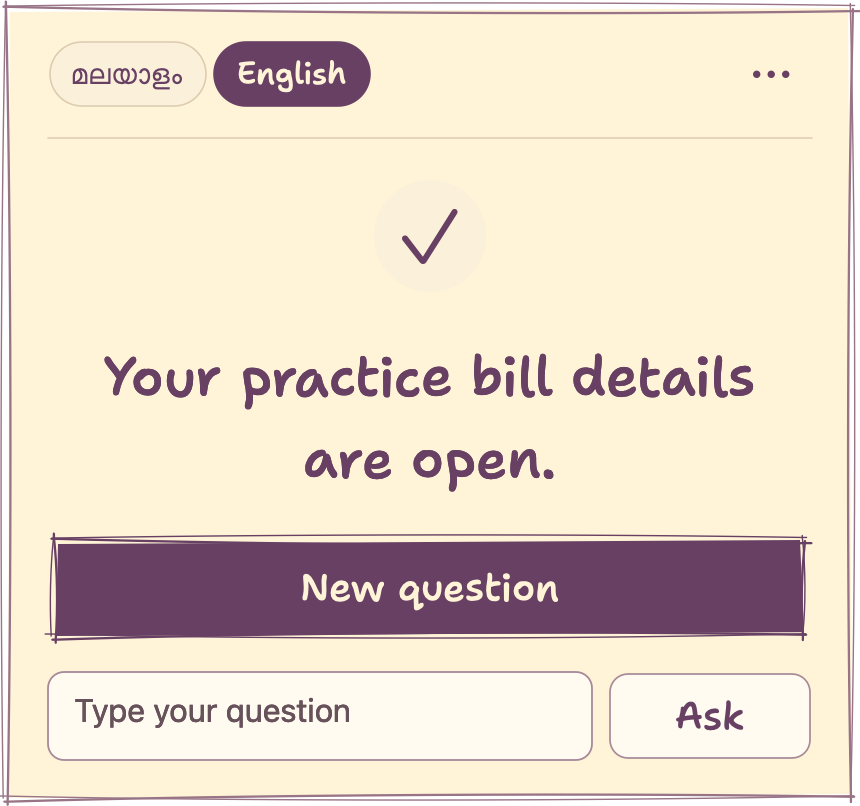
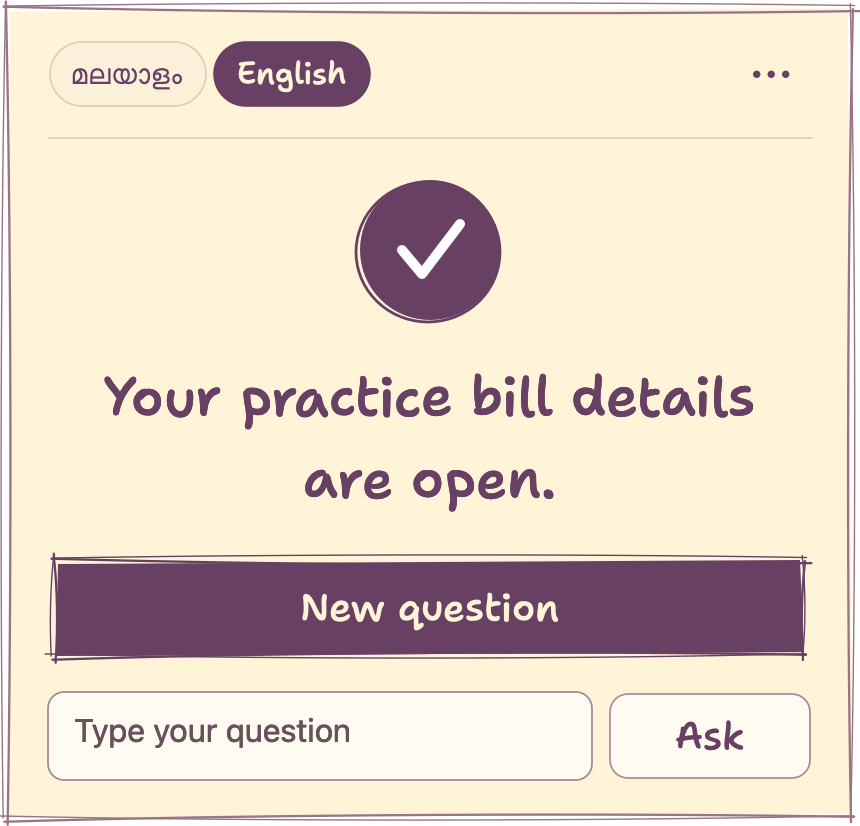
Polish the listening, thinking and done panel states

diff --git a/companion/panel/views.py b/companion/panel/views.py
@@ -53,6 +53,11 @@ def stroke(path, tint, weight):
     path.stroke()
 
 
+def ink_disc(x, y, w, h, tint):
+    fill(A.NSBezierPath.bezierPathWithOvalInRect_(((x + 3, y + 3), (w - 6, h - 6))), tint)
+    stroke(A.NSBezierPath.bezierPathWithOvalInRect_(((x + 1, y + 4), (w - 4, h - 6))), tint, 1.4)
+
+
 def paper_edge(rect, base, edge):
     x, y, w, h = rect
     polygon = line_path([(x + 1, y + 2), (x + w - 2, y), (x + w, y + h - 2), (x, y + h)], 1, True)
@@ -108,9 +113,9 @@ class PaperSurface(A.NSView):
             fill(path, SHEET)
             stroke(path, HAIR, .9)
         if self.badge:
-            name, tint, x, y = self.badge
-            fill(A.NSBezierPath.bezierPathWithOvalInRect_(((x - 28, y - 28), (56, 56))), WASH)
-            draw_symbol(name, 33, tint, x, y)
+            x, y = self.badge
+            ink_disc(x - 38, y - 38, 76, 76, INK)
+            stroke(line_path([(x - 14, y), (x - 4, y + 12), (x + 15, y - 13)], 5), A.NSColor.whiteColor(), 5)
 
 
 class PaperButton(A.NSButton):
@@ -128,9 +133,7 @@ class PaperButton(A.NSButton):
         kind = self.kind
         ink = INK if self.isEnabled() else HAIR
         if kind == "mic":
-            disc = A.NSBezierPath.bezierPathWithOvalInRect_(((3, 3), (w - 6, h - 6)))
-            fill(disc, ink)
-            stroke(A.NSBezierPath.bezierPathWithOvalInRect_(((1, 4), (w - 4, h - 6))), ink, 1.4)
+            ink_disc(0, 0, w, h, ink)
             draw_symbol(self.glyph, w * .37, PAPER, cx, cy)
         elif kind in ("replay", "more"):
             if kind == "replay" or self.state():
@@ -165,8 +168,8 @@ class LanguagePills(A.NSSegmentedControl):
             title.drawAtPoint_((x + (w / 2 - size.width) / 2 - 1, (h - size.height) / 2))
 
 
-class ListeningMeter(A.NSView):
-    """Listening indicator. The voice adapter supplies recording state, not audio amplitudes."""
+class PanelActivityIndicator(A.NSView):
+    """Status animations for planning and recording. Bars indicate recording activity."""
     def isFlipped(self):
         return True
 
@@ -178,30 +181,42 @@ class ListeningMeter(A.NSView):
         if self.isHidden():
             return
 
-        def animate(layer, key, low, high, duration):
+        def animate(layer, key, low, high, duration, offset=0):
             if reduce_motion:
                 return
             pulse = Q.CABasicAnimation.animationWithKeyPath_(key)
             pulse.setFromValue_(low)
             pulse.setToValue_(high)
             pulse.setDuration_(duration)
+            pulse.setTimeOffset_(offset)
             pulse.setAutoreverses_(True)
             pulse.setRepeatCount_(float("inf"))
             pulse.setTimingFunction_(Q.CAMediaTimingFunction.functionWithName_(Q.kCAMediaTimingFunctionEaseInEaseOut))
             layer.addAnimation_forKey_(pulse, key)
 
+        center = self.bounds().size.width / 2
+        if self.mode == "thinking":
+            for i in range(3):
+                dot = Q.CALayer.layer()
+                dot.setFrame_(((center - 5 + (i - 1) * 19, 6), (10, 10)))
+                dot.setCornerRadius_(5)
+                dot.setBackgroundColor_(INK.CGColor())
+                root.addSublayer_(dot)
+                animate(dot, "opacity", .42, 1, .85, (2 - i) * .20)
+            return
+
         for diameter, alpha in ((112, .42), (126, .18)):
             ring = Q.CALayer.layer()
-            ring.setFrame_(((70 - diameter / 2, 66 - diameter / 2), (diameter, diameter)))
+            ring.setFrame_(((center - diameter / 2, 66 - diameter / 2), (diameter, diameter)))
             ring.setCornerRadius_(diameter / 2)
             ring.setBorderWidth_(1.3)
             ring.setBorderColor_(INK.colorWithAlphaComponent_(alpha).CGColor())
             root.addSublayer_(ring)
             animate(ring, "transform.scale", .95, 1.04, 1.3)
-        for i, h in enumerate((6, 12, 19, 10, 24, 15, 8, 18, 11, 6)):
+        for i, h in enumerate((12, 24, 38, 20, 48, 30, 16, 36, 22, 12)):
             bar = Q.CALayer.layer()
-            bar.setFrame_(((36 + i * 7, 148 - h / 2), (4, h)))
-            bar.setCornerRadius_(2)
+            bar.setFrame_(((center - 67 + i * 14, 165 - h / 2), (8, h)))
+            bar.setCornerRadius_(4)
             bar.setBackgroundColor_(INK.CGColor())
             root.addSublayer_(bar)
             animate(bar, "transform.scale.y", .48, 1, .4 + (i % 3) * .12)

diff --git a/companion/panel/__init__.py b/companion/panel/__init__.py
@@ -8,7 +8,7 @@ import objc
 from Foundation import NSObject
 
 from .views import (
-    INK, MUTED, LanguagePills, ListeningMeter, PaperButton,
+    INK, MUTED, LanguagePills, PanelActivityIndicator, PaperButton,
     PaperPanelWindow, PaperSurface, hand, text_height, text_style,
 )
 
@@ -33,7 +33,7 @@ WORDS = {
     "en": {
         "prompt": "What can I help you do?", "intro": "Tell me, and I’ll point it out on screen.",
         "speak": "Tap to speak", "listen": "Listening…", "finish": "Tap again when you’ve finished.",
-        "think": "Finding your next step…", "type": "Type your question", "screen": "On screen",
+        "think": "Understanding…", "type": "Type your question", "screen": "On screen",
         "new": "New question", "replay": "Hear this step again", "details": "Technical details",
         "heard": "Heard", "again": "Let’s try again", "voice_error": "Voice is unavailable. Type your question or try speaking again.",
         "page_error": "Open the page you’d like help with.", "stop": "Stop", "skip": "Skip", "ask": "Ask",
@@ -153,7 +153,7 @@ class PaperPanel(NSObject):
         self.scroll.setScrollerStyle_(A.NSScrollerStyleOverlay)
         self.scroll.setDocumentView_(self.instruction)
         self.root.addSubview_(self.scroll)
-        self.meter = ListeningMeter.alloc().initWithFrame_(((0, 0), (140, 164)))
+        self.meter = PanelActivityIndicator.alloc().initWithFrame_(A.NSZeroRect)
         self.meter.setWantsLayer_(True)
         self.meter.setAccessibilityElement_(False)
         self.root.addSubview_positioned_relativeTo_(self.meter, A.NSWindowBelow, self.mic_button)
@@ -272,6 +272,9 @@ class PaperPanel(NSObject):
         public_state = {"voice_error": "error", "page_error": "error", "transcribing": "thinking"}.get(mode, mode)
         self.window.setAccessibilityValue_(public_state)
         self.window.setAccessibilityHelp_(mode)
+        self.meter.mode = public_state
+        stop_width = (inner - 76) / 2
+        stop_x = left + inner - stop_width
         y = 86
         if mode == "guiding":
             if self.heard_text:
@@ -305,24 +308,24 @@ class PaperPanel(NSObject):
             self.root.ticket = (left, top, inner, y - top)
             y += 14
             show(self.mic_button, left, y, 56, 56)
-            bw = (inner - 76) / 2
-            show(self.skip_button, left + 66, y + 3, bw, 50)
-            show(self.stop_button, left + 76 + bw, y + 3, bw, 50)
+            show(self.skip_button, left + 66, y + 3, stop_width, 50)
+            show(self.stop_button, stop_x, y + 3, stop_width, 50)
             y += 70
         elif mode == "listening":
-            show(self.meter, center - 70, y, 140, 164)
+            show(self.meter, center - 70, y, 140, 191)
             mic(y + 18, 96)
-            y = instruction(t["listen"], left, y + 174, inner, 100, centered=True)
+            y = instruction(t["listen"], left, y + 201, inner, 100, centered=True)
             y = caption(t["finish"], y, True) + 20
         elif mode in ("thinking", "transcribing"):
-            y = instruction(t["think"], left, y + 4, inner, 125)
+            show(self.meter, center - 30, y + 9, 60, 22)
+            y = instruction(t["think"], left, y + 40, inner, 125, centered=True)
             if mode == "thinking" and self.owner.active:
-                show(self.stop_button, left, y + 12, 116, 48)
-                y += 61
-            y += 18
+                show(self.stop_button, stop_x, y + 12, stop_width, 50)
+                y += 62
+            y += 14
         elif mode == "done":
-            self.root.badge = ("checkmark", INK, center, y + 32)
-            y = instruction(message, left, y + 80, inner, max_height - 330, centered=True)
+            self.root.badge = (center, y + 39)
+            y = instruction(message, left, y + 90, inner, max_height - 340, centered=True)
             show(self.new, left, y + 16, inner, 56)
             y += 86
         elif mode in ("error", "voice_error", "page_error"):

diff --git a/tests/test_panel.py b/tests/test_panel.py
@@ -85,6 +85,21 @@ class PaperPanelTests(unittest.TestCase):
         p.toggleDetails_(None)
         self.assertFalse(p.status.isHidden())
 
+    def test_thinking_dots_follow_reduce_motion_and_clear_when_guiding(self):
+        p = self.panel
+        show_sample(p, "thinking")
+        p.meter.update_motion(False)
+        dots = p.meter.layer().sublayers()
+        self.assertEqual(len(dots), 3)
+        self.assertTrue(all(dot.animationForKey_("opacity") for dot in dots))
+        p.meter.update_motion(True)
+        self.assertFalse(any(dot.animationKeys() for dot in p.meter.layer().sublayers()))
+        thinking_stop = p.stop_button.frame()
+        show_sample(p, "guiding")
+        self.assertEqual(thinking_stop.origin.x, p.stop_button.frame().origin.x)
+        self.assertEqual(thinking_stop.size, p.stop_button.frame().size)
+        self.assertFalse(p.meter.layer().sublayers())
+
     def test_long_steps_scroll_with_actions_inside_panel(self):
         p = self.panel
         p.set_state("guiding", en="Read the next line. " * 200, target="Search")

diff --git a/docs/panel-renders/README.md b/docs/panel-renders/README.md
@@ -13,15 +13,15 @@ These PNGs show the AppKit content view rendered offscreen at 2×. The examples 
 
 The idle microphone is 96 pt. During guidance it shrinks to 56 pt beside 50 pt Skip and Stop buttons. The step uses 27 pt Shantell Sans with Malayalam Sangam MN in the cascade and a minimum line height of 41 pt. Long instructions scroll within the step card. The chip shows the validated target’s label when a target is available.
 
-Replay uses the existing Sarvam speech path and the current language. Completion shows the planner’s actual completion message. New question returns to the microphone and clears the question field. The typed question and Ask stay visible in all six states. The ellipsis opens the existing developer status.
+Replay uses the existing Sarvam speech path and the current language. Completion pairs the planner’s actual completion message with a white tick on a hand-drawn plum disc about 72 pt across. New question returns to the microphone and clears the question field. The typed question and Ask stay visible in all six states. The ellipsis opens the existing developer status.
 
-Listening uses a stop glyph and Core Animation rings and bars. The bars indicate recording activity. The voice adapter exposes no input-amplitude feed. Reduce Motion holds the rings and bars still, including when the preference changes during a recording.
+Listening uses a stop glyph, pulsing rings and a centred 134 pt strip of recording bars reaching 48 pt high. The voice adapter exposes no input-amplitude feed. Thinking centres “മനസ്സിലാക്കുന്നു…” or “Understanding…” under three gently pulsing dots. Stop uses the same trailing column and 50 pt height as in Guiding. Reduce Motion keeps the dots, rings and bars still.
 
 ## Verification on the build Mac
 
 | Evidence | Command | Result |
 | --- | --- | --- |
-| automated | `.venv/bin/python -m unittest` | 192 passed. Panel coverage includes language changes, replay, recovery with the same step after a reader error, speech failure during guidance, recording priority, long text, details and Reduce Motion. |
+| automated | `.venv/bin/python -m unittest` | 193 passed. Panel coverage includes language changes, replay, recovery with the same step after a reader error, speech failure during guidance, recording priority, long text, details and Reduce Motion. |
 | automated | `.venv/bin/python -m companion.panel.render docs/panel-renders` | Rendered and visually inspected all 12 panels. The Malayalam text is shaped, with distinct vowel signs. The long sample wraps inside the step card. |
 | live-machine | `.venv/bin/python -m tests.test_panel_ax` | Passed all 12 state/language combinations. The window exposed its state, the first AXTextField was the question field, and an AXButton had the exact localized Ask title. The guiding tree exposed all nine required identifiers, including companion-skip. |
 | live-machine | `.venv/bin/python -m tests.test_panel_focus` | Safari remained frontmost in all 25 samples during normal Companion launch and all 10 samples after focusing the panel’s question field, entering a question and pressing Ask via Accessibility. |
@@ -29,4 +29,4 @@ Listening uses a stop glyph and Core Animation rings and bars. The bars indicate
 | live-machine | `QA_LIVE_SARVAM=1 .venv/bin/python scripts/qa/run.py pizza_follow kseb_follow` | 21 passed, 0 failed, 2 human checks skipped. Both local practice walks reached their completion messages and wrote fresh receipts. Pizza exercised the panel’s Skip button twice. |
 | needs-human | Older Malayalam speaker on the actual display | Assess reading comfort at arm’s length, understanding of each state, and ease of using the mic and replay. |
 
-One earlier KSEB run reached Submit and timed out before a receipt appeared. Two subsequent locked runs passed all 21 live assertions. The final default and live reports are in `runs/qa/20261122-013428/` and `runs/qa/20261122-013609/` respectively. The team can reproduce the focus and Accessibility probes with the commands above.
+One earlier KSEB run reached Submit and timed out before a receipt appeared. Two subsequent locked runs passed all 21 live assertions. The default QA report for the visual polish is in `runs/qa/20261122-013921/`. The earlier live Sarvam report is in `runs/qa/20261122-013609/`. The team can reproduce the focus and Accessibility probes with the commands above.
